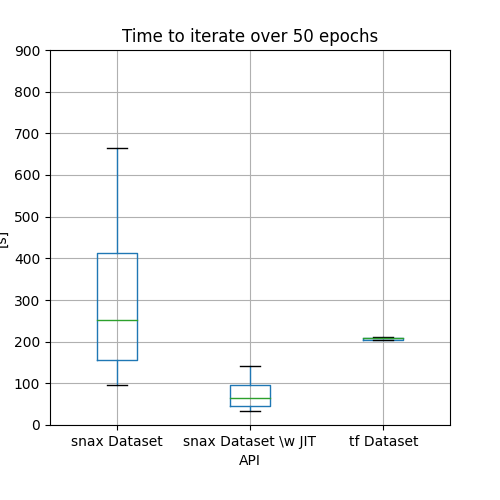
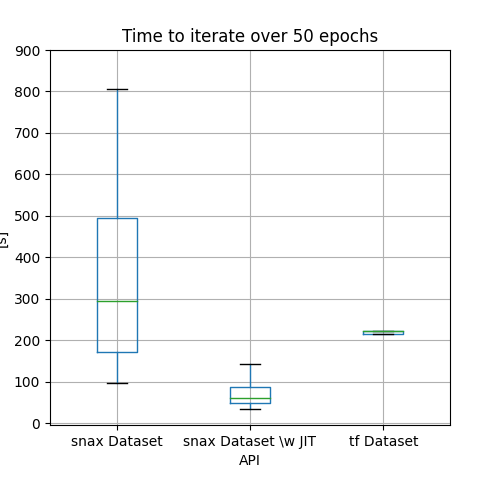
performance improvement

diff --git a/snax/data.py b/snax/data.py
@@ -1,31 +1,10 @@
-from pathlib import Path
 import jax.numpy as jnp
-import numpy as np
 import jax.random as jrn
-from jax import vmap
+from jax import vmap, jit
+from jax.lax import dynamic_slice
 from jaxtyping import PyTree, Int
 from typing import Callable, Union, List, Iterable, Any
 from .tree_util import *
-
-
-def filter_and_flatten(
-    schedule: Int[Array, "n-batches"]
-) -> List[Int[Array, "batch_size"]]:
-    """Given a matrix of float 'schedule' it returns a list of length equal to the first dimension of schedule where each elements represent the flattened dimensions of the input"""
-
-    def filter_and_flatten_batch(batch):
-        batch = jnp.ravel(batch)
-        batch = batch.take(~jnp.isnan(batch)).astype(jnp.int32)
-        return batch
-
-    if len(schedule.shape) == 2:
-        # for performance, unbatched sets are processed as a single large batch and then split
-        output = list(filter_and_flatten_batch(schedule))
-    else:
-        schedule_batches = list(schedule)
-        output = tree_map(filter_and_flatten_batch, schedule_batches)
-
-    return output
 
 
 def assert_same_cardinality_across_datasets(datasets: List["Dataset"]) -> int:
@@ -57,6 +36,23 @@ def return_currentmost_schedule_as_array(dataset: "Dataset") -> Int[Array, "n-ba
         Indexes of the current batch.
     """
     return dataset.scheduler(dataset.rng)
+
+
+def filter_and_flatten(
+    schedule: Int[Array, "n-batches"]
+) -> List[Int[Array, "batch_size"]]:
+    """Forces the in input to be 2d and filters out all elements equals to -1 in the last batch.
+
+    Returns
+    -------
+    _type_
+        _description_
+    """
+    flat_schedule = jnp.reshape(schedule, (schedule.shape[0], -1))
+    schedule_list = list(flat_schedule)  # 40 ms, there is room for improvement
+    valid_index_in_last = jnp.where(schedule_list[-1] != -1, 1, 0).sum()
+    schedule_list[-1] = schedule_list[-1][:valid_index_in_last]
+    return schedule_list
 
 
 class Dataset:
@@ -145,11 +141,12 @@ class Dataset:
             Batched Dataset.
         """
         n_batches = self.sizer() // batch_size
-        extra_samples = batch_size - (self.sizer() % batch_size)
+        extra_samples = self.sizer() % batch_size
+        pad_size = batch_size - extra_samples
         n_samples = n_batches * batch_size
 
         def sizer():
-            return n_batches if drop_reminder else n_batches + 1
+            return n_batches if drop_reminder or extra_samples == 0 else n_batches + 1
 
         def scheduler(rng):
             schedule = self.scheduler(rng)
@@ -164,8 +161,10 @@ class Dataset:
                 (n_batches, batch_size, *schedule.shape[1:]),
             )
 
-            if not drop_reminder:
-                padding = jnp.nan * jnp.empty((extra_samples, *schedule.shape[1:]))
+            if not drop_reminder and extra_samples > 0:
+                padding = -1 * jnp.ones(
+                    (pad_size, *schedule.shape[1:]), dtype=jnp.int32
+                )
                 padding = jnp.expand_dims(
                     jnp.concatenate([schedule[n_samples:], padding], axis=0), axis=0
                 )
@@ -190,7 +189,7 @@ class Dataset:
         """
 
         def scheduler(rng):
-            return jrn.permutation(seed + rng, self.scheduler(rng))
+            return jrn.permutation(seed + rng, self.scheduler(rng), independent=True)
 
         return Dataset(reader=self.reader, sizer=self.sizer, scheduler=scheduler)
 
@@ -298,18 +297,15 @@ class Dataset:
         return func(self)
 
     def cardinality(self) -> int:
-        """Returns the cardinality of the dataset.
+        """Returns the number of batches in the dataset.
+        If no `batch` transformation is applied it is equivalent to the number of elements.
 
         Returns
         -------
         int
-            Cardinality of the dataset.
+            Number of batches in the dataset.
         """
         return self.sizer()
-
-    def filter(self, predicate: Callable[[Any], bool]) -> "Dataset":
-        status_set = Dataset.zip(self, self.map(predicate))
-        return status_set
 
     @staticmethod
     def from_tensor_slices(tensors: PyTree) -> "Dataset":
@@ -373,25 +369,3 @@ class Dataset:
             return schedule
 
         return Dataset(reader=reader, sizer=sizer, scheduler=scheduler)
-
-    @staticmethod
-    def concatenate(*datasets: Iterable["Dataset"]) -> "Dataset":
-        sizes = tree_map(lambda x: x.sizer(), datasets)
-        root_schedule = jnp.hstack(
-            tree_map(return_currentmost_schedule_as_array, datasets)
-        )
-
-        cumulative_size = jnp.asarray(sum(sizes))
-
-        def sizer():
-            return cumulative_size
-
-        def reader(ix):
-            nested_ix = root_schedule.take(ix)
-            # nested_readers = root_readers.take(ix)
-            pass
-
-        schedule = jnp.transpose(jnp.atleast_2d(jnp.arange(sizer())))
-
-        def scheduler(rng):
-            return schedule

diff --git a/tests/mnist.py b/tests/mnist.py
@@ -21,7 +21,7 @@ def processing(input):
     return {"image": nn.relu(jnp.matmul(x, W)), "label": input["label"]}
 
 
-van_snax = snds.load("mnist")["train"].map(processing).shuffle(PRNGKey(0)).batch(128)
+van_snax = snds.load("mnist")["train"].map(processing).shuffle(PRNGKey(0)).batch(16)
 
 for _ in range(5):
     for batch in van_snax:

diff --git a/setup.py b/setup.py
@@ -3,7 +3,7 @@ from setuptools import setup
 
 setup(
     name="data-snax",
-    version="0.2",
+    version="0.3",
     description="Versatile data ingestion pipelines for jax",
     install_requires=[
         "numpy>=1.23",

diff --git a/README.md b/README.md
@@ -101,7 +101,7 @@ def processing(input):
 sn_dataset=ds.map(processing)
 jitted_sn_dataset=sn_dataset.jit() # boosting performance
 ```
-In a small scale testing experiment, the use of  `snax.jit()` increased speed on average by 61% compared to `tf.data.Dataset` and by 72% compared to vanilla `snax.data.Dataset`.
+In a small scale testing experiment, the use of  `snax.jit()` increased speed on average by 64% compared to `tf.data.Dataset` and by 75% compared to vanilla `snax.data.Dataset`.
 ![comparisons](images/comparisons.png)
 
 ## A note on performance
@@ -137,7 +137,7 @@ tf_dataset=tf_dataset.shuffle(1024) # tensorflow
 What it does not yet support:
   1. `from_generator`
   2. `concatenate`
-  3. `bucket_by_sequence_lenght`
+  3. `bucket_by_sequence_length`
   4. `filter`
 
 
